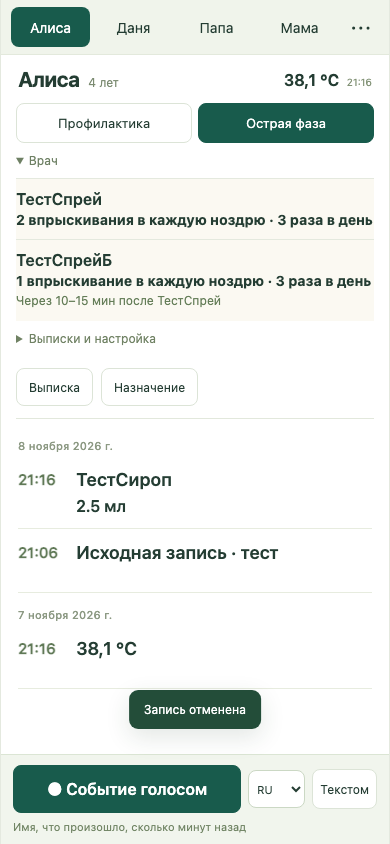
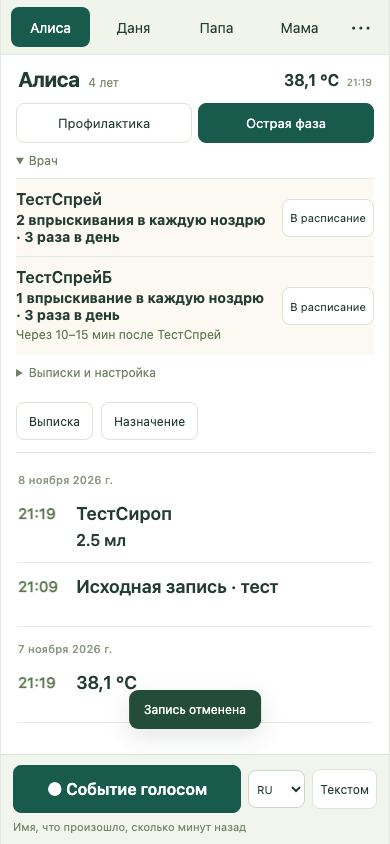
Restore direct prescription transfer with a clear schedule action

diff --git a/site/public/app.js b/site/public/app.js
@@ -50,9 +50,9 @@ function historyRows(rows){
 function doctorPlan(){
   const phase=current().carePhase||'',rxs=state.prescriptions.filter(r=>r.personId===patientId&&!r.archived&&(!phase||!r.carePhase||r.carePhase===phase));
   const suggestions=state.documents.filter(d=>d.personId===patientId&&d.sourceKind!=='household').flatMap(d=>d.suggestions.map((s,index)=>({s,d,index}))).filter(({s,d})=>(!phase||(s.conditions?.includes('Условная схема')?'acute':'prevention')===phase)&&!state.prescriptions.some(r=>r.documentId===d.id&&r.sourceText===s.sourceText));
-  const row=(r,draft=false)=>{const brief=prescriptionSummary(r),details=[brief.details,!phase?r.conditions:''].filter(Boolean).join(' · ');return `<div class="order${draft?' draft':''}"><div><strong>${e(r.name)}</strong><b>${e(brief.dose)} · ${e(brief.frequency)}</b>${details?`<span>${e(details)}</span>`:''}</div></div>`;};
-  const rows=rxs.map(r=>row(r)).join(''),drafts=suggestions.map(({s})=>row(s,true)).join('');
-  return rows+drafts+(!rows&&!drafts?'<p class="quiet">Назначений пока нет</p>':'')+`<details class="sources"><summary>Выписки и настройка</summary>${suggestions.length?'<p class="quiet">Для расписания укажите дату начала курса и часы приёма. Названия и дозы перенесены из выписки.</p>':''}${rxs.map(r=>`<button data-act="rx" data-id="${r.id}">Изменить курс · ${e(r.name)}</button>`).join('')}${suggestions.map(({s,d,index})=>`<button data-act="draft-rx" data-id="${d.id}" data-index="${index}">Настроить курс · ${e(s.name)}</button>`).join('')}${state.documents.filter(d=>d.personId===patientId).map(d=>`<button data-act="document" data-id="${d.id}">Оригинал · ${e(d.name)}</button>`).join('')}</details>`;
+  const row=(r,draft=false,action='')=>{const brief=prescriptionSummary(r),details=[brief.details,!phase?r.conditions:''].filter(Boolean).join(' · ');return `<div class="order${draft?' draft':''}"><div><strong>${e(r.name)}</strong><b>${e(brief.dose)} · ${e(brief.frequency)}</b>${details?`<span>${e(details)}</span>`:''}</div>${action}</div>`;};
+  const rows=rxs.map(r=>row(r)).join(''),drafts=suggestions.map(({s,d,index})=>row(s,true,`<button type="button" data-act="draft-rx" data-id="${d.id}" data-index="${index}" aria-label="В расписание · ${e(s.name)}">В расписание</button>`)).join('');
+  return rows+drafts+(!rows&&!drafts?'<p class="quiet">Назначений пока нет</p>':'')+`<details class="sources"><summary>Выписки и настройка</summary>${suggestions.length?'<p class="quiet">Для расписания укажите дату начала курса и часы приёма. Названия и дозы перенесены из выписки.</p>':''}${rxs.map(r=>`<button data-act="rx" data-id="${r.id}">Изменить курс · ${e(r.name)}</button>`).join('')}${state.documents.filter(d=>d.personId===patientId).map(d=>`<button data-act="document" data-id="${d.id}">Оригинал · ${e(d.name)}</button>`).join('')}</details>`;
 }
 function field(label,name,value='',extra=''){return `<label>${label}<input name="${name}" value="${e(value)}" ${extra}></label>`;}
 function footer(label='Сохранить'){return `<footer class="dialog-footer"><button type="button" data-close>Отмена</button><button type="submit" class="primary">${label}</button></footer>`;}

diff --git a/PROJECT.md b/PROJECT.md
@@ -60,6 +60,6 @@
 
 Проверки: `npm --prefix site test` и `site/scripts/canary.mjs` с Playwright. `MEDIKA_TEST_AI=1` включает настоящий разбор Terra на синтетических данных; без него unit/API и базовый canary используют локальный детерминированный разбор и не тратят подписку. Canary использует временную базу и синтетические фото/голос; проверяет ввод, Whisper, OCR, личную историю, отмену, перезапуск и восстановление. Все размеры интерфейса проверяются на одном приложении; фотографии/аудио пользователя не используются. Доступ с Mac проверен по LAN и HTTPS; физический iPad не проверен. Актуальные результаты: `reports/canary-result.json`, `reports/test-report.md`, `reports/https-access.json`, `reports/terra-live.json`, `reports/terra-cases.json`.
 
-В списке назначений показываются название, доза на приём и частота. Частота берётся из текущего подтверждённого расписания или явно указанной формулировки выписки; неизвестная не достраивается. Часы, дни недели и интервал между препаратами сохраняются короткой строкой. Повтор условия выбранной фазы и кнопки проверки убраны из строк; оригиналы, изменение и настройка курса доступны в «Выписки и настройка». Это изменение отображения не активирует курсы и не меняет назначения/историю.
+В списке назначений показываются название, доза на приём и частота. Частота берётся из текущего подтверждённого расписания или явно указанной формулировки выписки; неизвестная не достраивается. Часы, дни недели и интервал между препаратами сохраняются короткой строкой. Повтор условия выбранной фазы убран из строк. Рядом с препаратом из выписки есть «В расписание»: открыть форму, указать даты/часы и подтвердить сохранение курса. Само открытие или отмена ничего не активирует. Оригиналы и изменение сохранённых курсов доступны в «Выписки и настройка». Это изменение отображения не активирует курсы и не меняет назначения/историю.
 
 Режим пациента переключается двумя постоянно видимыми кнопками «Профилактика» / «Острая фаза» под именем. Выбранная кнопка подсвечена; одно нажатие сохраняет режим и раскрывает соответствующие назначения. До явного выбора у пациента без режима обе кнопки не выделены (сам режим автоматически не назначается). Во время сохранения/записи переключатель блокируется. Прошлые события сохраняют исходный контекст.
